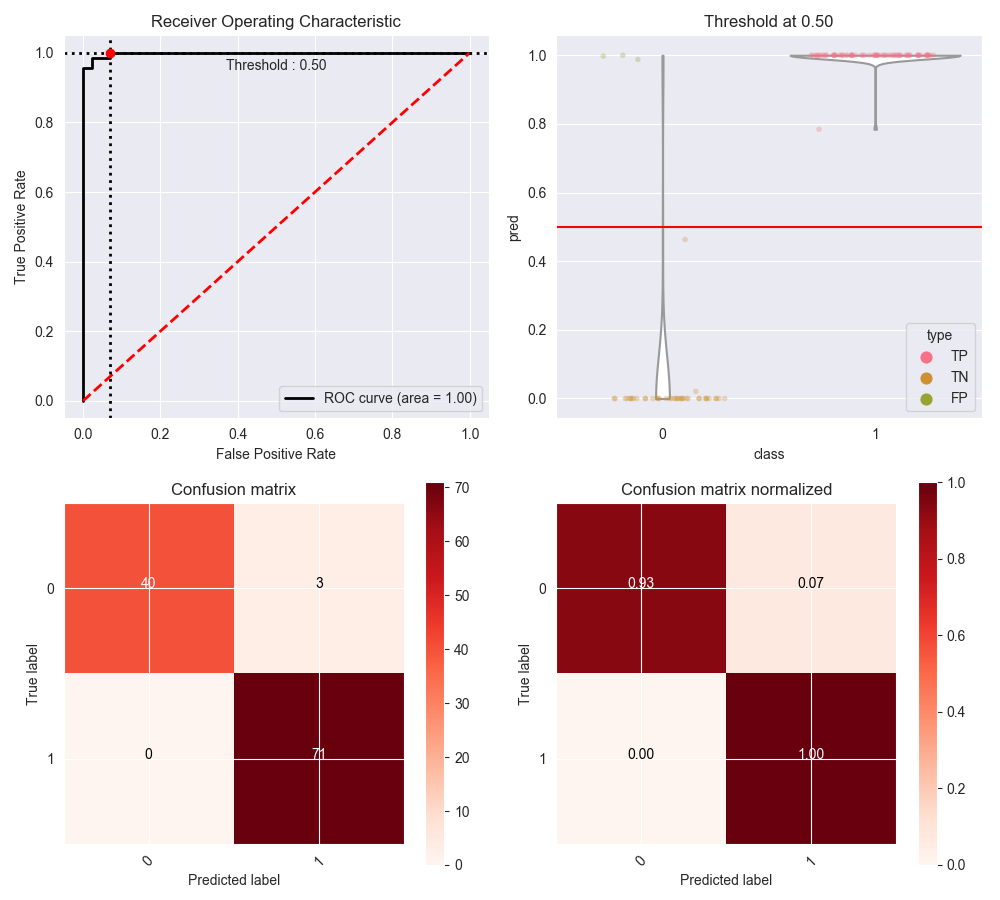
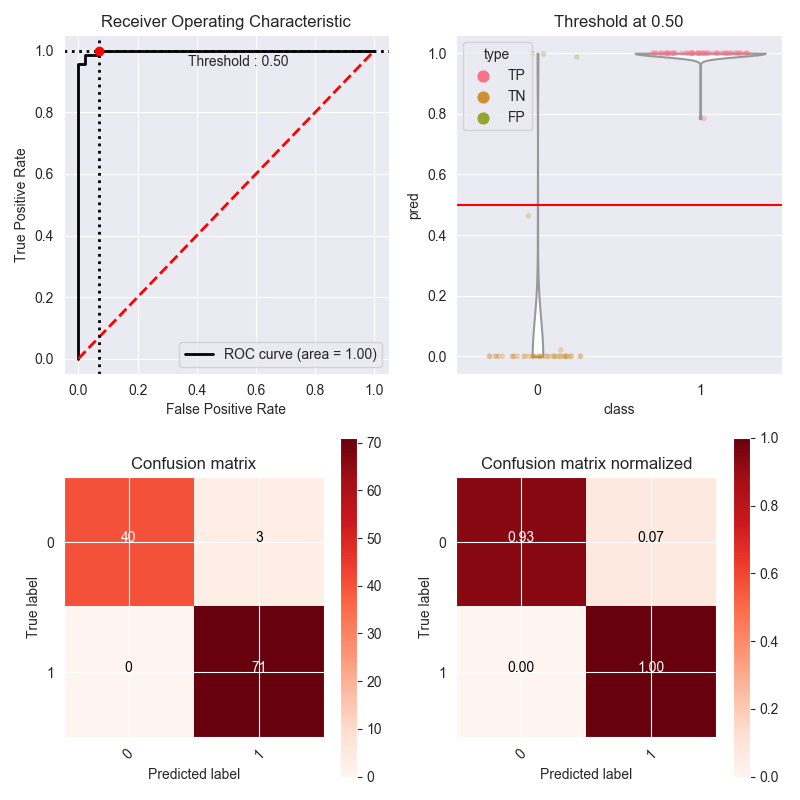
Update readme and example

diff --git a/example/binary_classification.py b/example/binary_classification.py
@@ -26,7 +26,7 @@ y_pred = gnb.predict_proba(X_test)[:,1]
 # Visualisation with plot_metric :
 bc = BinaryClassification(y_test, y_pred, labels=[0, 1])
 
-plt.figure(figsize=(10,9))
+plt.figure(figsize=(8,8))
 plt.subplot(221)
 bc.plot_roc()
 plt.subplot(222)

diff --git a/README.rst b/README.rst
@@ -1,0 +1,81 @@
+plot_metric
+===========
+
+|PyPI-Versions|
+
+Librairie to simplify plotting of metric like ROC curve, confusion matrix etc..
+
+Installation
+------------
+Using pip :
+
+.. code:: sh
+
+    pip install plot-metric
+
+
+Example
+-------
+
+Let's load a simple dataset and make a train & test set :
+
+.. code:: python
+
+    from sklearn.datasets import load_breast_cancer
+    from sklearn.model_selection import train_test_split
+    import pandas as pd
+    
+    X, y = load_breast_cancer(return_X_y=True)
+    X_train, X_test, y_train, y_test = train_test_split(pd.DataFrame(X), y, test_size=0.2, random_state=42)
+
+
+Train our classifier and predict our test set :
+
+.. code:: python
+
+    from sklearn.naive_bayes import GaussianNB
+    
+    gnb = GaussianNB()
+    model = gnb.fit(X_train, y_train)
+    # Use predict_proba to predict probability of the class
+    y_pred = gnb.predict_proba(X_test)[:,1]
+
+
+We can now use ``plot_metric`` to plot ROC Curve, distribution class and classification matrix :
+
+.. code:: python
+
+    from plot_metric.functions import  BinaryClassification
+    import matplotlib.pyplot as plt
+    bc = BinaryClassification(y_test, y_pred, labels=[0, 1])
+
+    plt.figure(figsize=(10,9))
+    plt.subplot(221)
+    bc.plot_roc()
+    plt.subplot(222)
+    bc.plot_class_distribution()
+    plt.subplot(223)
+    bc.plot_confusion_matrix()
+    plt.subplot(224)
+    bc.plot_confusion_matrix(normalize=True)
+    plt.show()
+    bc.print_report()
+
+    >>>                    ________________________
+    >>>                   |  Classification Report |
+    >>>                    ‾‾‾‾‾‾‾‾‾‾‾‾‾‾‾‾‾‾‾‾‾‾‾‾
+    >>>               precision    recall  f1-score   support
+    >>>            0       1.00      0.93      0.96        43
+    >>>            1       0.96      1.00      0.98        71
+    >>>    micro avg       0.97      0.97      0.97       114
+    >>>    macro avg       0.98      0.97      0.97       114
+    >>> weighted avg       0.97      0.97      0.97       114
+
+
+.. image:: example/images/example_binary_classification.png
+    :scale: 50
+
+
+.. |PyPI-Versions| image:: https://img.shields.io/badge/plot__metric-v0.0.2-blue.svg
+    :target: https://pypi.org/project/plot-metric/
+    
